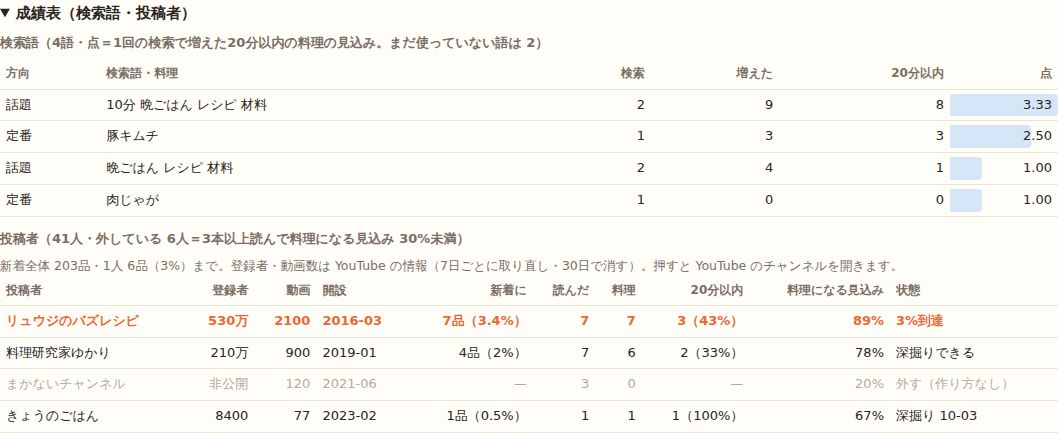
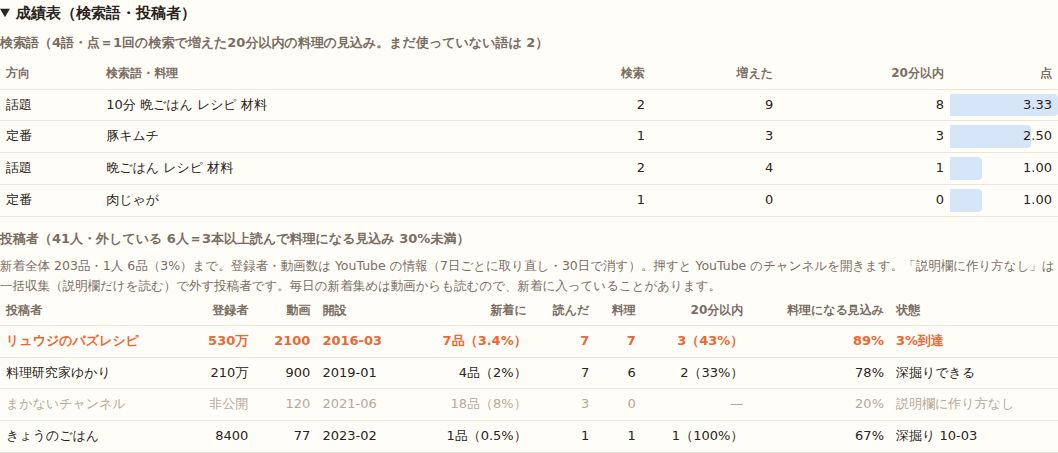
投稿者の一覧：数字・年月を折り返さない・「説明欄に作り方なし」に言い換え (#134)
* 投稿者の一覧：数字・年月を折り返さない・「説明欄に作り方なし」に言い換え

Claude-Session: https://claude.ai/code/session_015zzcJcm29LmdJqCGMULFDE

* docs: #134 を最近終わったことへ

Claude-Session: https://claude.ai/code/session_015zzcJcm29LmdJqCGMULFDE

---------

diff --git a/admin/catalog.html b/admin/catalog.html
@@ -568,13 +568,15 @@
     const board = last.seed?.channelBoard;
     const rows = board?.rows || [];
     const man = (n) => (n == null ? "非公開" : n >= 10000 ? `${(n / 10000).toFixed(n >= 100000 ? 0 : 1)}万` : String(n));
-    const state = (c) => (c.opted ? "掲載停止" : c.low ? "外す（作り方なし）" : c.full ? "3%到達" : c.digOk ? "深掘りできる" : c.dugAt ? `深掘り ${String(c.dugAt).slice(5, 10)}` : "");
+    const state = (c) => (c.opted ? "掲載停止" : c.low ? "説明欄に作り方なし" : c.full ? "3%到達" : c.digOk ? "深掘りできる" : c.dugAt ? `深掘り ${String(c.dugAt).slice(5, 10)}` : "");
     if (rows.length) {
       const t = table(["投稿者", "登録者", "動画", "開設", "新着に", "読んだ", "料理", "20分以内", "料理になる見込み", "状態"],
         rows.map((c) => [c.youtube?.title || c.name || c.id, c.youtube ? man(c.youtube.subscribers) : "—", c.youtube?.videos ?? "—", c.youtube?.since || "—", c.inList ? `${c.inList}品（${c.share}%）` : "—", c.ai, c.ok, c.ok ? `${c.fast}（${c.fastShare}%）` : "—", c.ai ? `${c.rate}%` : "—", state(c)]),
         [1, 2, 4, 5, 6, 7, 8], (i) => { const id = rows[i].id; if (/^UC[\w-]{22}$/.test(id)) window.open(`https://www.youtube.com/channel/${id}`, "_blank", "noopener"); }, { wide: true });
       [...t.querySelectorAll("tr")].slice(1).forEach((tr, i) => { if (rows[i].opted || rows[i].low) tr.classList.add("dim"); if (rows[i].full) tr.classList.add("over"); });
-      box.append(el("p", `新着全体 ${board.total}品・1人 ${board.maxPer}品（3%）まで。登録者・動画数は YouTube の情報（7日ごとに取り直し・30日で消す）。押すと YouTube のチャンネルを開きます。`, "meta"), scroll(t));
+      // 数字・年月の列は折り返さない（「2023-」「05」と2行にならないように）。
+      for (const tr of t.querySelectorAll("tr")) [...tr.children].forEach((td, j) => { if (j >= 1) td.style.whiteSpace = "nowrap"; });
+      box.append(el("p", `新着全体 ${board.total}品・1人 ${board.maxPer}品（3%）まで。登録者・動画数は YouTube の情報（7日ごとに取り直し・30日で消す）。押すと YouTube のチャンネルを開きます。「説明欄に作り方なし」は一括収集（説明欄だけを読む）で外す投稿者です。毎日の新着集めは動画からも読むので、新着に入っていることがあります。`, "meta"), scroll(t));
     } else {
       const top = ch?.top || [];
       box.append(top.length ? scroll(table(["チャンネルID", "読んだ", "料理", "20分以内", "料理になる見込み", ""], top.map((c) => [c.id, c.ai, c.ok, c.fast, `${c.rate}%`, c.skip ? "外す" : ""]), [1, 2, 3, 4], null, { wide: true })) : el("p", "まだ記録がありません。", "empty"));

diff --git a/docs/APP_MAP.md b/docs/APP_MAP.md
@@ -762,7 +762,7 @@ flowchart LR
 - **投稿者の比率**（ユーザーの判断「ポートフォリオの個別投稿者の上限が3%を超えないように」）：新着全体（28日以内。毎日の新着集め＋一括収集）で、1人の投稿者の料理は、入れた後に3%以下になる時だけ入れる（`PORTFOLIO_CHANNEL_SHARE`・`portfolioRoom`。新着が34品より少ない間は1人1品まで）。数は保存済みの読み取り結果のチャンネルから数える（0円）。一括収集は AI の前に確かめ（`channel_cap`・試した扱いにしない）、同じ投稿者を同時に読む時は読んでいる分も数える。読んで初めて分かった投稿者も入れる前に確かめる（`channel_cap_read`）。毎日の新着集めも同じ。以前に入って3%を超えている投稿者は、これからは入れない（管理の画面で赤字）。**分母は公開の一覧に出るものだけ**（読み出せない＝削除・非公開・保存結果なし、掲載停止の動画・投稿者は数えない）。**3%で見送った候補は試した扱いにしない**：一括収集は見送りの列（`doc.capped`・200本まで）、毎日の新着集めはその週の `capped` に残し、次の実行の始めに枠が空いた投稿者の分を候補に戻す（読んでから分かった分も、読んだ結果は保存済みなので次は0円）。毎日の新着集めもチャンネルが分かっている候補は AI の前に確かめる。数えた結果は、同じ一覧（`trends/index` の世代）・同じ掲載停止（並べた ID のハッシュ。数が同じまま入れ替わっても区別する）の間は10分まで使い回す（掲載停止が変わったら捨てる）。管理の画面の「深掘りできる投稿者」は掲載停止・3%も含めて数える（review fix #132）
 - **当たり投稿者の深掘り**（広げ方「投稿者」・`channel`）：投稿者の成績表で料理2品以上・料理になる見込み5割以上の投稿者を、（料理になる見込み × 20分以内の見込み）の高い順に、新しい動画一覧（playlistItems。1回1単位で**検索の枠を使わない**）から15本まで見て10本まで候補に（`DIG_*`）。同じ投稿者は14日あける。「話題と定番を交互に」でも2回に1回、検索の上限に届いた後も続けられる。動画一覧の取得に失敗した時は待たせない
 - **定番は料理が3品増えるまで**：説明欄の確認を通った候補を8本まで残し（`WAVE_CLASSIC_KEEP`）、その検索で料理が3品増えたら残りは読まない（読んでいる最中の分も数える）。1本外れても次を読む
-- **投稿者の一覧**（2026-10-03 のユーザーの要望「チャンネル名・登録者数・動画数＋α」）：成績表の投稿者を、YouTube のチャンネル名・登録者数（非公開なら「非公開」）・動画数・開設（年月）と、新着に入っている品数と割合（3%到達は赤字）・読んだ・料理・20分以内（割合）・料理になる見込み・状態（掲載停止／外す（作り方なし）／3%到達／深掘りできる／深掘りした日）で上位30人。押すと YouTube のチャンネルを開く。チャンネル情報は channels.list（50件で1単位）で取り、`youtube/channel-stats` に7日まで使い回し、30日を過ぎたら消す（`api/src/channelStats.js`。取れない時は前の値。失敗・応答に含まれないチャンネルは確かめた日時を別に残して1日は取り直さない＝古い値の取得日は進めない。**1日1回の後片付け（housekeeping）でも30日を過ぎた値を消す**＝管理の画面を開かなくても残らない。review fix #133）。管理の状態の `channelBoard`
+- **投稿者の一覧**（2026-10-03 のユーザーの要望「チャンネル名・登録者数・動画数＋α」）：成績表の投稿者を、YouTube のチャンネル名・登録者数（非公開なら「非公開」）・動画数・開設（年月）と、新着に入っている品数と割合（3%到達は赤字）・読んだ・料理・20分以内（割合）・料理になる見込み・状態（掲載停止／説明欄に作り方なし（一括収集で外す。毎日の新着集めは動画からも読むので新着に入っていることがある）／3%到達／深掘りできる／深掘りした日）で上位30人。押すと YouTube のチャンネルを開く。チャンネル情報は channels.list（50件で1単位）で取り、`youtube/channel-stats` に7日まで使い回し、30日を過ぎたら消す（`api/src/channelStats.js`。取れない時は前の値。失敗・応答に含まれないチャンネルは確かめた日時を別に残して1日は取り直さない＝古い値の取得日は進めない。**1日1回の後片付け（housekeeping）でも30日を過ぎた値を消す**＝管理の画面を開かなくても残らない。review fix #133）。管理の状態の `channelBoard`
 - **画面**：「どこから増えたか」に投稿者の比率（新着全体の品数・人数・1人の上限・上位15人・超えている投稿者は赤字）と「投稿者」の行・深掘りできる投稿者の人数。広げ方に「当たり投稿者の深掘り」。「料理になった割合」は AI で読んだうちの割合（段階の比較も）
 
 ## 47. 集めた新着が献立の候補になるまでと、おすすめの順（discover.js・lifestyle.js `propose`・2026-10-01）

diff --git a/docs/CURRENT_TASK.md b/docs/CURRENT_TASK.md
@@ -27,6 +27,7 @@
 
 ## 最近終わったこと（新しい順）
 
+- #134 投稿者の一覧の表示：数字・年月を折り返さない・「説明欄に作り方なし」（一括収集は説明欄だけ／毎日の新着集めは動画からも読む）・3%を超えている投稿者は28日で自然に収まるのを待つ（ユーザーの判断）
 - #133 管理の画面の投稿者の一覧：チャンネル名・登録者数・動画数・開設・新着での品数と割合・成績・状態（YouTube の情報は7日で取り直し・30日で消す・失敗は1日待つ・後片付けでも消す）（APP_MAP §46-6・§41）
 - #132 当たり投稿者の深掘り（成績のよい投稿者の動画一覧から・検索の枠を使わない・14日あける）・投稿者の比率は新着全体の3%まで（分母は公開の一覧だけ・見送った候補は待たせて戻す・毎日の新着集めも）・定番は料理3品まで・管理の画面に投稿者の比率・料理になった割合は AI で読んだうち（APP_MAP §46-6）
 - #131 YouTube の検索をプロジェクト全体で1日95回まで数える（太平洋時間で切り替わり・一括収集はほかの分30回を残す・ほかの作り方も同じ枠）・広げ方の検索は1日60回・上限の時は管理の画面のボタンを止めて切り替わりの時刻を出す（後回しの候補があれば止めない）・30分以上の余地がない時は長い定番を後回し（APP_MAP §46-3・§46-5）
